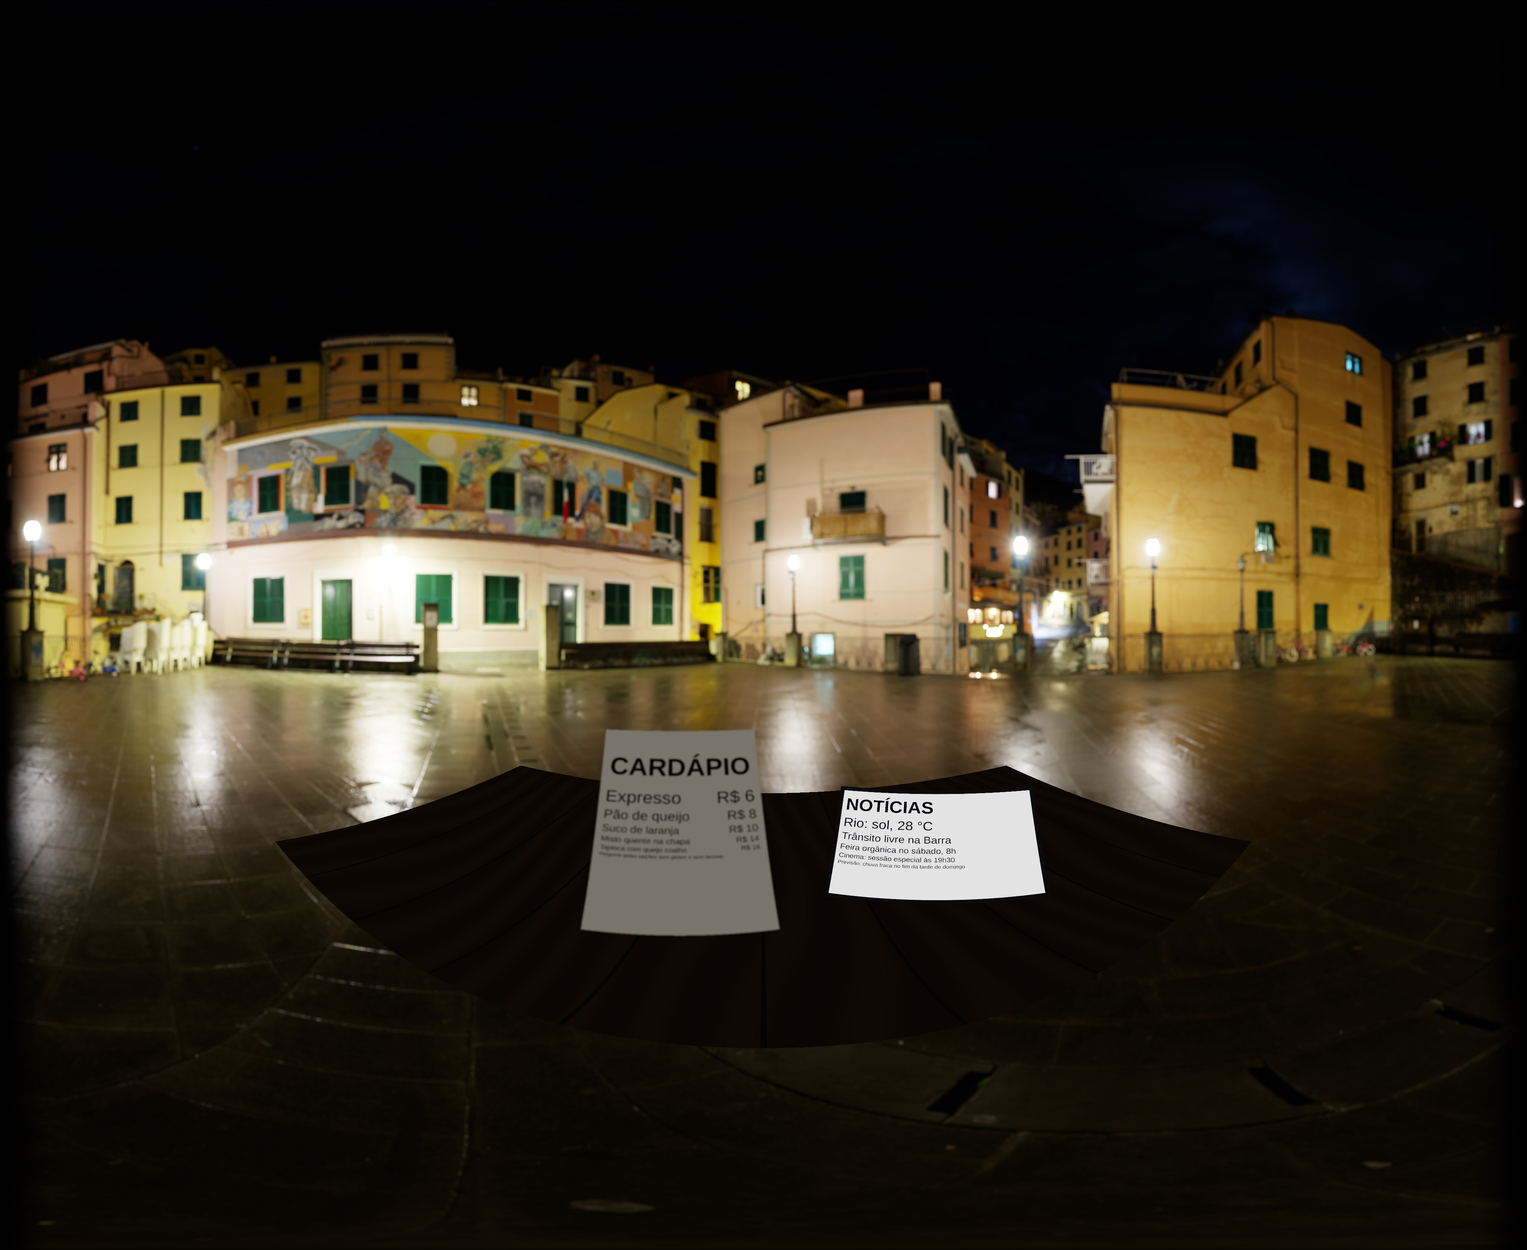
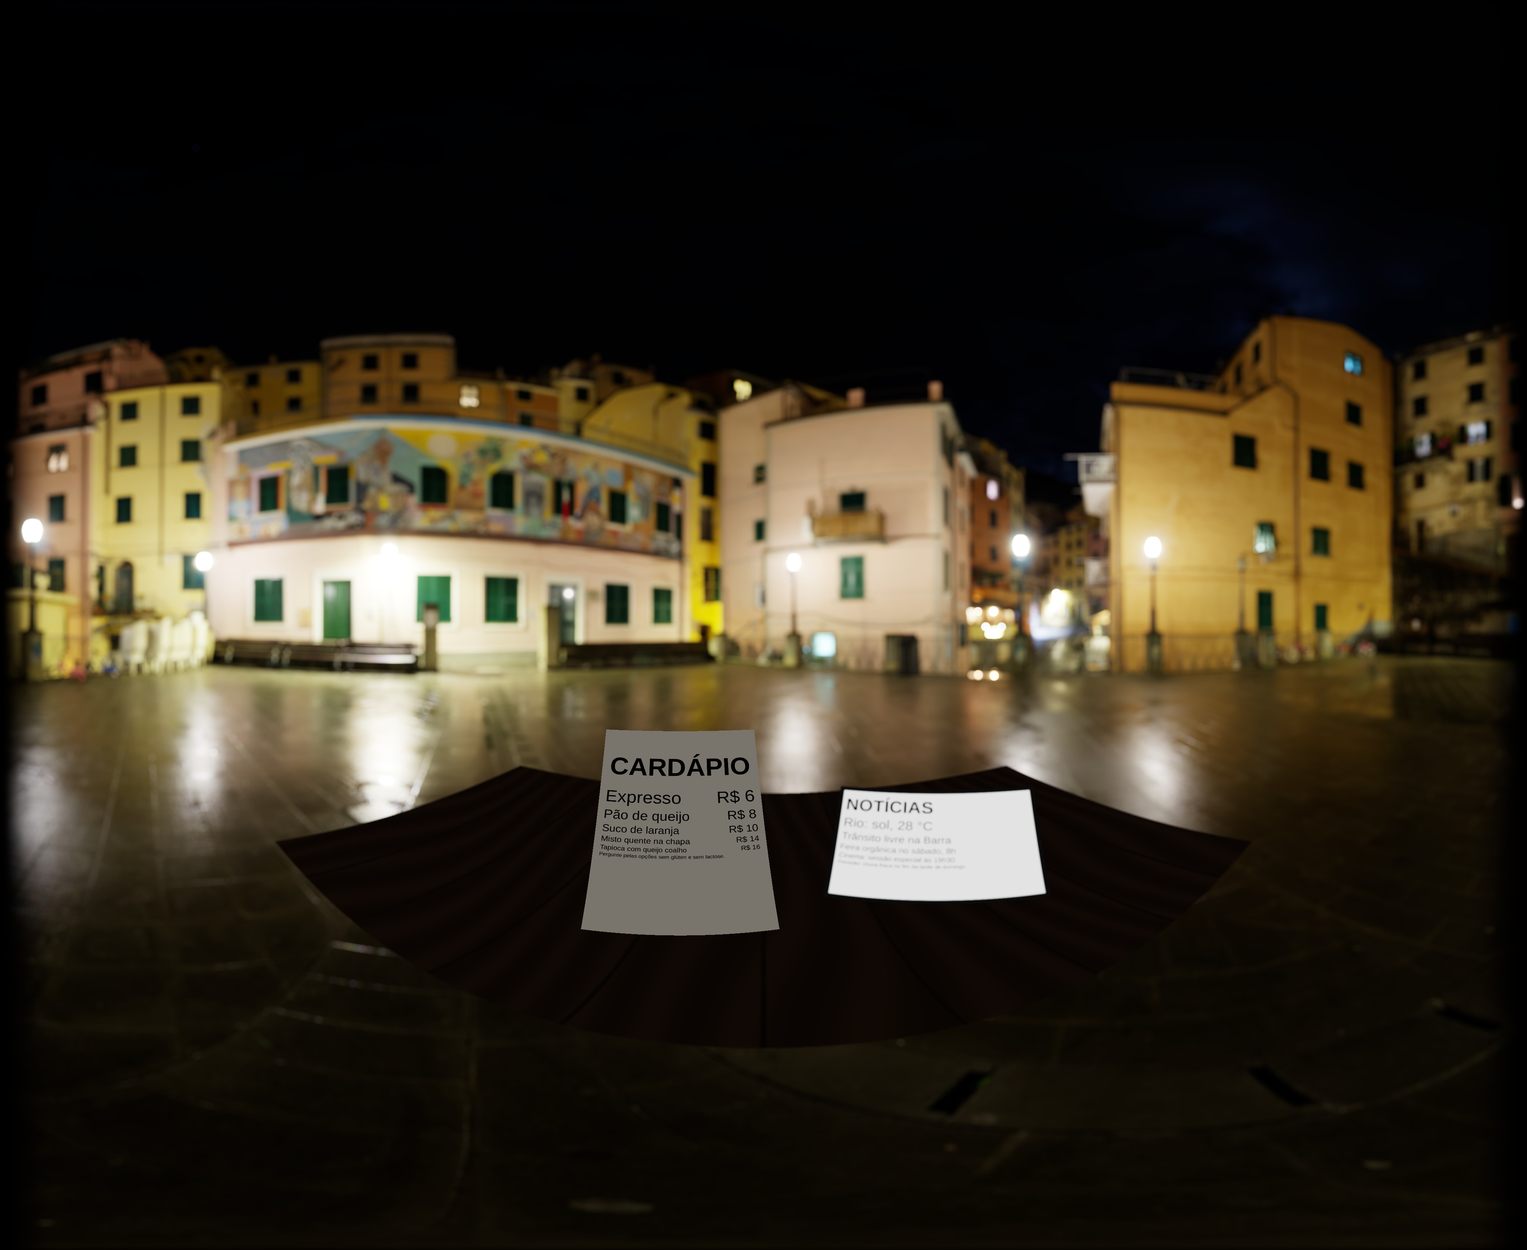
Perto nítido na multifocal e no olho de perto; vídeo em resolução cheia (código)
- Livro conta como perto (40 cm); a multifocal é seletiva de dia e o OE da monovisão vai a −2,50 D.
- tools/video.py: 3800 × 3600 (20 px/grau, a resolução da lente) em HEVC, duas passadas de 3 lentes.
- Noite regerada (olho de perto novo). Vídeos do dia em renderização.

Claude-Session: https://claude.ai/code/session_01XtBJ8An28GNAkWoeKpGgwd

diff --git a/tools/video.py b/tools/video.py
@@ -1,7 +1,7 @@
 """Gera um vídeo por lente a partir de um trecho da Insta360 X6 (só a lente da frente, sem costura).
 
 Uso: python3 tools/video.py <trecho.mp4> <início_s> [duração_s=10] [folha.jpg]
-Grava media/dia-{lente}.mp4 (190° × 180°, 3040 × 2880, H.264) e a folha de contato do quadro do meio.
+Grava media/dia-{lente}.mp4 (190° × 180°, 3800 × 3600, HEVC) e a folha de contato do quadro do meio.
 
 A distância de cada pixel vem do Depth Anything V2 (ONNX, CPU), quadro a quadro. O modelo dá a profundidade
 relativa; as três referências medidas na gravação a convertem em vergência (dioptrias), e uma mediana no
@@ -16,18 +16,22 @@ from lentes import LENTES, PUPILA_MM
 
 # Lente da frente da X6 (projeção equidistante), calibrada em 01/11/2026 pela sobreposição com a lente de trás.
 F_PX_GRAU, CENTRO, LADO = 19.75, (1919.0, 1919.9), 3840
-CAMPO, W, H = 190, 3040, 2880   # 16 px/grau; a lente cobre ~194° no quadro; 3040 × 2880 cabe no H.264 nível 5.2
+CAMPO, W, H = 190, 3800, 3600   # 20 px/grau, a resolução da própria lente; passa do teto do H.264, por isso HEVC
 PX_GRAU = W / CAMPO
 FPS = "30000/1001"
 MODELO = os.path.join(bake.CACHE, "modelos", "da2-small.onnx")  # ponytail: o small; o base tem bordas melhores e custa 2,5x
 URL_MODELO = "https://huggingface.co/onnx-community/depth-anything-v2-small/resolve/main/onnx/model.onnx"
 
-# Referências do trecho de 01/11/2026 (caixas x0, y0, x1, y1 no quadro de saída) e vergências medidas (D):
-# árvores e poste ao longe, criança e mulher a ~1 m, livro a ~30 cm (informadas pelo Dr. Henrique).
+# Referências do trecho de 01/11/2026 (caixas x0, y0, x1, y1 num quadro de 3040 × 2880) e vergências (D):
+# árvores e poste ao longe, criança e mulher a ~1 m (informadas pelo Dr. Henrique). O livro, a ~30 cm, conta
+# como o perto do app (40 cm, 2,5 D), e nada fica mais perto que ele: assim as lentes de perto o mostram nítido.
+REF_W, REF_H = 3040, 2880
 REFS = [([(500, 1280, 2300, 1440)], 0.03),
         ([(1250, 1630, 1530, 1850), (1710, 1690, 2080, 1930)], 1.0),
-        ([(760, 2080, 1960, 2400)], 1 / 0.30)]
-FAIXAS = np.float32([0.0, 1.0, 2.2, 1 / 0.30, 4.3])  # centros das faixas de vergência (D), alinhados às referências
+        ([(760, 2080, 1960, 2400)], 2.5)]
+FAIXAS = np.float32([0.0, 1.0, 1.75, 2.5])  # centros das faixas de vergência (D); a última é o livro
+REGIOES = {r: (x * W // REF_W, y * H // REF_H)  # centros dos recortes da folha de contato
+           for r, (x, y) in {"longe": (2150, 1300), "intermediário": (1900, 1820), "perto": (1520, 2160)}.items()}
 
 
 def mapas():
@@ -60,37 +64,42 @@ def vergencia(sessao, rgb):
     x = cv2.resize(rgb, (w, h), interpolation=cv2.INTER_AREA).astype(np.float32) / 255
     x = ((x - (0.485, 0.456, 0.406)) / (0.229, 0.224, 0.225)).transpose(2, 0, 1)[None].astype(np.float32)
     disp = sessao.run(None, {sessao.get_inputs()[0].name: x})[0].reshape(h, w)
-    ref = [float(np.median(np.concatenate([disp[int(y0 * h / H):int(y1 * h / H), int(x0 * w / W):int(x1 * w / W)].ravel()
+    ref = [float(np.median(np.concatenate([disp[y0 * h // REF_H:y1 * h // REF_H, x0 * w // REF_W:x1 * w // REF_W].ravel()
                                            for x0, y0, x1, y1 in caixas]))) for caixas, _ in REFS]
-    alvo = [v for _, v in REFS]
     assert ref[0] < ref[1] < ref[2], f"referências fora de ordem na profundidade estimada: {ref}"
-    v = np.interp(disp, ref, alvo)
-    v = np.where(disp > ref[2], alvo[2] + (disp - ref[2]) * (alvo[2] - alvo[1]) / (ref[2] - ref[1]), v)  # mais perto que o livro
-    return np.clip(v, 0, FAIXAS[-1]).astype(np.float32)
+    return np.interp(disp, ref, [v for _, v in REFS]).astype(np.float32)  # além das pontas, fica no valor da ponta
 
 
 def nucleos():
     """Borrão de cada lente em cada faixa, por escala (1, 2 ou 4): componente de borrão grande dispensa resolução, e o
-    componente nítido de uma multifocal fica na escala 1. Cada núcleo já vem pesado pela fração da luz."""
+    componente nítido de uma multifocal fica na escala 1. Cada núcleo já vem pesado pela fração da luz.
+    Lente seletiva (lentes.py): onde uma das imagens está em foco, só ela conta."""
     out = {}
     for nome, lente in LENTES.items():
         for i, v in enumerate(FAIXAS):
+            borrao = lambda c: bake.psf({**lente, "componentes": [(*c[:2], 1.0)]}, v, PUPILA_MM["dia"], PX_GRAU)
+            comps = lente["componentes"]
+            if lente.get("seletiva"):
+                foco = [c for c in comps if borrao(c) is None]
+                comps = [(*c[:2], 1 / len(foco)) for c in foco] or comps
             grupos = {}
-            for c in lente["componentes"]:
-                k = bake.psf({**lente, "componentes": [(*c[:2], 1.0)]}, v, PUPILA_MM["dia"], PX_GRAU)
+            for c in comps:
+                k = borrao(c)
                 grupos.setdefault(1 if k is None or k.shape[0] < 7 else 2 if k.shape[0] < 11 else 4, []).append(c)
             out[nome, i] = []
             for esc, g in grupos.items():
                 k = bake.psf({**lente, "componentes": g}, v, PUPILA_MM["dia"], PX_GRAU / esc)
                 out[nome, i].append((esc, np.float32([[sum(c[2] for c in g)]]) if k is None else k))
+    for nome in ("multifocal", "perto"):  # decisão de 01/11/2026: a multifocal e o olho de perto leem o livro nítido
+        assert [(e, k.tolist()) for e, k in out[nome, len(FAIXAS) - 1]] == [(1, [[1.0]])], f"{nome}: livro borrado"
     return out
 
 
-def lentes_do_quadro(rgb8, v, nuc, lut):
+def lentes_do_quadro(rgb8, v, nuc, lut, grupo):
     """Soma normalizada das faixas borradas (preenche o que o objeto da frente escondia). Gera (lente, rgb linear), uma por vez.
     Cada escala acumula à parte e só amplia no fim: ampliar é linear, então uma ampliação por lente basta."""
     rgb = lut[rgb8]
-    k = np.clip(np.searchsorted(FAIXAS, v) - 1, 0, len(FAIXAS) - 2)
+    k = np.clip(np.searchsorted(FAIXAS, v) - 1, 0, len(FAIXAS) - 2).astype(np.int8)
     f = np.clip((v - FAIXAS[k]) / (FAIXAS[k + 1] - FAIXAS[k]), 0, 1)
     soma = {}
     for i in range(len(FAIXAS)):
@@ -101,7 +110,7 @@ def lentes_do_quadro(rgb8, v, nuc, lut):
         np.multiply(rgb, peso[..., None], out=c1[..., :3])
         c1[..., 3] = peso
         camada = {1: c1}
-        for n in LENTES:
+        for n in grupo:
             for esc, nk in nuc[n, i]:
                 if esc not in camada:
                     camada[esc] = cv2.resize(camada[1], (W // esc, H // esc), interpolation=cv2.INTER_AREA)
@@ -110,7 +119,7 @@ def lentes_do_quadro(rgb8, v, nuc, lut):
                     soma[n, esc] += b
                 else:
                     soma[n, esc] = b
-    for n in LENTES:
+    for n in grupo:
         s = sum(soma.pop((n, e)) if e == 1 else cv2.resize(soma.pop((n, e)), (W, H), interpolation=cv2.INTER_LINEAR)
                 for e in (1, 2, 4) if (n, e) in soma)
         yield n, bake.catarata(s[..., :3] / np.maximum(s[..., 3:], 1e-4), LENTES[n], PX_GRAU)
@@ -128,8 +137,12 @@ def oito_bits(img):
     return SAIDA[x.astype(np.uint16)]
 
 
+def recortes(img):
+    return {r: img[y - 150:y + 150, x - 200:x + 200].copy() for r, (x, y) in REGIOES.items()}
+
+
 def rascunho(arq):
-    """Gravação quase sem perda e com pouca memória (são 6 ao mesmo tempo); a compressão final vem depois, uma lente por vez."""
+    """Gravação quase sem perda e com pouca memória (várias ao mesmo tempo); a compressão final vem depois, uma lente por vez."""
     cmd = ["ffmpeg", "-v", "error", "-y", "-f", "rawvideo", "-pix_fmt", "rgb24", "-s", f"{W}x{H}", "-r", FPS, "-i", "-",
            "-c:v", "libx264", "-preset", "ultrafast", "-crf", "8", "-x264-params", "threads=1", "-pix_fmt", "yuv420p", arq]
     return subprocess.Popen(cmd, stdin=subprocess.PIPE)
@@ -146,35 +159,37 @@ if __name__ == "__main__":
     if not os.path.exists(MODELO):
         os.makedirs(os.path.dirname(MODELO), exist_ok=True)
         urllib.request.urlretrieve(URL_MODELO, MODELO)
+    nuc = nucleos()
     sessao = ort.InferenceSession(MODELO, providers=["CPUExecutionProvider"])
     t0 = time.time()
     vs = np.stack([vergencia(sessao, q) for q in quadros(trecho, inicio, n)])   # 1ª passada: profundidade
     n = len(vs)
     vs = np.stack([np.median(vs[max(0, i - 2):i + 3], 0) for i in range(n)])     # mediana de 5 quadros no tempo
     print(f"profundidade de {n} quadros em {time.time() - t0:.0f} s", flush=True)
-    del sessao                                                                    # a memória vai para os 6 codificadores
-    nuc = nucleos()
+    del sessao
     pasta = tempfile.mkdtemp(prefix="lensvr-")
-    enc = {nm: rascunho(os.path.join(pasta, f"{nm}.mkv")) for nm in LENTES}
-    for i, q in enumerate(quadros(trecho, inicio, n)):                            # 2ª passada: óptica
-        if i == n // 2:
-            meio = {"original": oito_bits(LUT[q])}                                # quadro do meio, para a folha de contato
-        for nm, img in lentes_do_quadro(q, cv2.resize(vs[i], (W, H), interpolation=cv2.INTER_LINEAR), nuc, LUT):
-            b = oito_bits(img)
-            enc[nm].stdin.write(b.tobytes())
-            if i == n // 2:
-                meio[nm] = b
-        if i % 20 == 0:
-            print(f"quadro {i} em {time.time() - t0:.0f} s", flush=True)
-    for p in enc.values():
-        p.stdin.close()
-        assert p.wait() == 0, "ffmpeg falhou"
-    for nm in LENTES:                                                             # compressão final, uma lente por vez
-        subprocess.run(["ffmpeg", "-v", "error", "-y", "-i", os.path.join(pasta, f"{nm}.mkv"), "-c:v", "libx264",
-                        "-preset", "fast", "-crf", "21", "-profile:v", "high", "-level:v", "5.2", "-movflags", "+faststart",
-                        os.path.join(bake.RAIZ, "media", f"dia-{nm}.mp4")], check=True)
+    np.save(os.path.join(pasta, "vs.npy"), vs)
+    vs = np.load(os.path.join(pasta, "vs.npy"), mmap_mode="r")                    # a profundidade fica em disco
+    nomes, meio = list(LENTES), {}
+    for grupo in (nomes[:3], nomes[3:]):                                          # 2ª passada: óptica, 3 lentes por vez
+        enc = {nm: rascunho(os.path.join(pasta, f"{nm}.mkv")) for nm in grupo}    # (as 6 juntas não cabem na memória)
+        for i, q in enumerate(quadros(trecho, inicio, n)):
+            if i == n // 2 and not meio:
+                meio["original"] = recortes(oito_bits(LUT[q]))                    # quadro do meio, para a folha de contato
+            for nm, img in lentes_do_quadro(q, cv2.resize(vs[i], (W, H), interpolation=cv2.INTER_LINEAR), nuc, LUT, grupo):
+                b = oito_bits(img)
+                enc[nm].stdin.write(b.tobytes())
+                if i == n // 2:
+                    meio[nm] = recortes(b)
+            if i % 20 == 0:
+                print(f"{grupo[0]} e cia.: quadro {i} em {time.time() - t0:.0f} s", flush=True)
+        for p in enc.values():
+            p.stdin.close()
+            assert p.wait() == 0, "ffmpeg falhou"
+    for nm in nomes:                                                              # compressão final, uma lente por vez
+        subprocess.run(["ffmpeg", "-v", "error", "-y", "-i", os.path.join(pasta, f"{nm}.mkv"), "-c:v", "libx265",
+                        "-preset", "fast", "-crf", "24", "-tag:v", "hvc1", "-x265-params", "log-level=error",
+                        "-movflags", "+faststart", os.path.join(bake.RAIZ, "media", f"dia-{nm}.mp4")], check=True)
     shutil.rmtree(pasta)
-    regioes = {"longe": (2150, 1300), "intermediário": (1900, 1820), "perto": (1520, 2160)}
-    bake.folha_de_contato({"vídeo": {nm: {r: im[y - 150:y + 150, x - 200:x + 200] for r, (x, y) in regioes.items()}
-                                     for nm, im in meio.items()}}, folha)
+    bake.folha_de_contato({"vídeo": meio}, folha)
     print(f"pronto em {time.time() - t0:.0f} s; folha de contato: {folha}")

diff --git a/tools/lentes.py b/tools/lentes.py
@@ -6,6 +6,8 @@ Depois de editar: python3 tools/bake.py  (regera media/ e a folha de contato).
 Componente = (foco em D, faixa nítida em D, fração da luz). Frações de uma lente somam 1.
 Desfoque efetivo de um objeto = |vergência do objeto − foco| − faixa (nunca negativo).
 Diâmetro do borrão = pupila × desfoque × GANHO.
+Lente "seletiva": de dia, onde uma das imagens está em foco, o cérebro fica só com ela (no vídeo, tools/video.py).
+À noite vale a óptica física, e a luz desviada vira halo.
 """
 
 GANHO = 2.0                             # 1,0 = óptica física; 2,0 compensa a tela do óculos (~20/75)
@@ -21,10 +23,11 @@ LENTES = {
     },
     "monofocal": {"componentes": [(0.0, 0.25, 1.0)]},
     "edof": {"componentes": [(0.75, 0.75, 0.9), (2.0, 0.25, 0.1)]},
-    "multifocal": {"componentes": [(0.0, 0.25, 0.5), (1.5, 0.25, 0.2), (2.5, 0.25, 0.3)]},
+    # 01/11/2026: de dia, perto (livro) e longe 100% nítidos.
+    "multifocal": {"componentes": [(0.0, 0.25, 0.5), (1.5, 0.25, 0.2), (2.5, 0.25, 0.3)], "seletiva": True},
     # Monofocal comum num olho com astigmatismo: equivalente esférico no foco, meridianos a ±cilindro/2.
     # Eixo em graus na imagem (0 = horizontal, 90 = vertical); o meridiano do eixo fica em foco − cilindro/2.
     "astig": {"componentes": [(0.0, 0.25, 1.0)], "cilindro": 1.50, "eixo": 90},
-    # Olho de perto da monovisão (OE, −1,50 D). O OD usa a monofocal.
-    "perto": {"componentes": [(1.5, 0.25, 1.0)]},
+    # Olho de perto da monovisão (OE, −2,50 D: lê o livro nítido, decisão de 01/11/2026). O OD usa a monofocal.
+    "perto": {"componentes": [(2.5, 0.25, 1.0)]},
 }

diff --git a/.scratch/esqueleto/spec.md b/.scratch/esqueleto/spec.md
@@ -61,10 +61,10 @@ Valores iniciais, aprovados pelo Dr. Henrique em 23/10/2026 como ponto de partid
 | Catarata (antes) | 0 · 0,25 · 1,0 | desfoque basal 0,75 D, véu 30%, contraste 70%, amarelamento |
 | Monofocal | 0 · 0,25 · 1,0 | — |
 | EDOF | 0,75 · 0,75 · 0,9 + 2,0 · 0,25 · 0,1 | — |
-| Multifocal (trifocal) | 0 · 0,25 · 0,5 + 1,5 · 0,25 · 0,2 + 2,5 · 0,25 · 0,3 | — |
+| Multifocal (trifocal) | 0 · 0,25 · 0,5 + 1,5 · 0,25 · 0,2 + 2,5 · 0,25 · 0,3 | de dia, a imagem em foco prevalece: longe e perto 100% nítidos (01/11/2026); à noite, halos |
 | Tórica: sem correção | 0 · 0,25 · 1,0 | astigmatismo residual 1,50 D a 90° |
 | Tórica: corrigida | igual à monofocal | — |
-| Monovisão | OD: 0 · 0,25 · 1,0 / OE: 1,5 · 0,25 · 1,0 (−1,50 D) | imagem diferente por olho |
+| Monovisão | OD: 0 · 0,25 · 1,0 / OE: 2,5 · 0,25 · 1,0 (−2,50 D; era −1,50 D até 01/11/2026) | imagem diferente por olho; o OE lê o perto nítido |
 
 - Fotos em 4096 × 3352 (220° × 180°, ≈18,6 px/grau, acima dos ~16 px/grau da tela no óculos): `media/noite-{lente}.jpg`. Vídeo do dia: `media/dia-{lente}.mp4`. Lentes: catarata, monofocal, edof, multifocal, astig, perto. A tórica corrigida e o OD da monovisão reusam a monofocal.
 
@@ -83,9 +83,9 @@ Valores iniciais, aprovados pelo Dr. Henrique em 23/10/2026 como ponto de partid
 
 **Vídeo (`tools/video.py`)**
 - Origem: o `.insv` da X6 traz as duas lentes em fluxos separados (3840 × 3840, HEVC 10 bits, 29,97 fps). Usa-se só a lente da frente (fluxo 0), sem costura: ela cobre ~194° no quadro. Projeção equidistante calibrada pela sobreposição com a lente de trás: 19,75 px/grau, centro (1919; 1920).
-- Saída 190° × 180° em 3040 × 2880 (16 px/grau), H.264 nível 5.2 (o maior quadro desse nível a 30 fps). Falta confirmar a reprodução no S23 Ultra.
-- Profundidade: Depth Anything V2 small (ONNX, CPU) quadro a quadro. A profundidade relativa vira vergência pelas três referências medidas na gravação: árvores 0,03 D, criança e mulher 1,0 D, livro 3,33 D. Depois, mediana de 5 quadros no tempo.
-- Óptica: a mesma do `bake.py`, em 5 faixas de vergência alinhadas às referências, somadas com normalização (o que o objeto da frente escondia é preenchido). Cada componente da lente é borrado na sua escala: borrões grandes em 1/2 ou 1/4 da resolução, a parte nítida da EDOF e da multifocal na resolução cheia. A memória do container (~6 GB) manda: um processo só, com as 6 lentes gravadas primeiro num rascunho quase sem perda e comprimidas depois, uma por vez. Leva ~55 min por 10 s.
+- Saída 190° × 180° em 3800 × 3600 (20 px/grau, a resolução da própria lente), em HEVC: passa do teto do H.264 (~9 MP por quadro), e o S23 Ultra decodifica HEVC no hardware. A versão anterior, em H.264 a 3040 × 2880, tocou nele.
+- Profundidade: Depth Anything V2 small (ONNX, CPU) quadro a quadro. A profundidade relativa vira vergência pelas três referências medidas na gravação: árvores 0,03 D, criança e mulher 1,0 D. O livro, a ~30 cm, conta como o perto do app (2,5 D), e nada fica mais perto que ele (01/11/2026: não importa 30 ou 40 cm). Depois, mediana de 5 quadros no tempo.
+- Óptica: a mesma do `bake.py`, em 4 faixas de vergência (0; 1,0; 1,75; 2,5 D), somadas com normalização (o que o objeto da frente escondia é preenchido). Cada componente da lente é borrado na sua escala: borrões grandes em 1/2 ou 1/4 da resolução, a parte nítida da EDOF e da multifocal na resolução cheia. A memória do container (~6 GB) manda: duas passadas de 3 lentes, cada lente gravada primeiro num rascunho quase sem perda e comprimida em HEVC depois, uma por vez. Leva ~1h45 por 10 s.
 - O trecho de origem fica no Mac (`VR simulator/VR IOL Simulator/video teste/trecho_37-49s.mp4`, cópia sem recodificar de 37 a 49 s). Para regerar: `python3 tools/video.py <trecho> 1.0 10`.
 - Produto final: vídeos mais longos passam do limite do GitHub Pages (~1 GB): hospedar à parte e baixar no celular antes da consulta.
 

diff --git a/HANDOFF.md b/HANDOFF.md
@@ -9,7 +9,8 @@
 
 ## Decisões
 - **MVP (01/11/2026):** de dia, 10 s de vídeo da X6 gravado pelo Henrique na varanda (livro a ~30 cm, criança e mulher a ~1 m, árvores ao longe), publicação autorizada por ele. À noite, a foto HDR `vignaioli_night` do Poly Haven (CC0) com mesa, cardápio e notebook sintéticos. As gravações do roteiro (café de dia, carro à noite) ficam para depois do MVP (ticket 05).
-- **Vídeo:** só a lente da frente, sem costura, 190° × 180° em 3040 × 2880 (H.264 nível 5.2). A profundidade vem do Depth Anything V2 small, calibrada pelas três distâncias que o Henrique informou. Detalhes na spec, seção "Vídeo".
+- **Vídeo:** só a lente da frente, sem costura, 190° × 180° em 3800 × 3600 (20 px/grau, a resolução da lente), em HEVC. A profundidade vem do Depth Anything V2 small, calibrada pelas distâncias que o Henrique informou; o livro conta como perto (40 cm). Detalhes na spec, seção "Vídeo".
+- **Perto (01/11/2026):** a multifocal e o olho de perto da monovisão (agora −2,50 D) leem o livro 100% nítido. De dia a multifocal é seletiva: onde uma imagem está em foco, só ela conta. À noite segue a óptica física, com halos.
 - **WebXR nativo do Chrome** (Cardboard) no lugar do giroscópio e do estéreo próprios. O antigo ticket 02 (calibração) saiu; a calibração passa a ser o QR code do óculos.
 - **Campo:** 220° × 180° nas fotos e 190° × 180° no vídeo. O app tira o campo da proporção da mídia, e a borda some num degradê.
 - **Óptica.** A tabela da spec foi aprovada como ponto de partida e fica em `tools/lentes.py`. Ordem dos capítulos da spec mantida.
@@ -25,14 +26,13 @@
 - **Não verificado no aparelho:** WebXR no S23 Ultra, QR code do Cardboard no óculos, tela acesa durante a sessão, nitidez real no óculos, reprodução do vídeo de 3040 × 2880 (dois ao mesmo tempo na monovisão), vídeo atualizando dentro da sessão VR.
 
 ## Pendências do Henrique
-1. Abrir o site no Chrome do S23 Ultra, tocar em Iniciar e contar se entra no modo VR do Cardboard.
-2. Comprar um SC-G15E e testar o encaixe.
-3. Avaliação clínica das folhas de contato (noite e vídeo) e, depois, no óculos. O ganho 2,0 também dobra o tamanho do halo.
-4. Gravar a narração por capítulo (opcional no MVP).
+1. Feito em 01/11/2026: o vídeo tocou no S23 Ultra com um óculos Shinecon, mas a resolução pareceu baixa. Conferir se a tela está em WQHD+ e retestar com o vídeo em resolução cheia (HEVC).
+2. Avaliação clínica das folhas de contato (noite e vídeo) e, depois, no óculos. O ganho 2,0 também dobra o tamanho do halo.
+3. Gravar a narração por capítulo (opcional no MVP).
 
 ## Como rodar
 - `python3 tools/bake.py [folha.jpg]` regera as fotos da noite e a folha de contato em ~1 min. Na primeira vez, baixa o HDR para `~/.cache/olharpar-lensvr`. Precisa de numpy, Pillow, scipy e opencv.
-- `python3 tools/video.py <trecho.mp4> 1.0 10 [folha.jpg]` regera os vídeos do dia e a folha de contato deles em ~55 min. Precisa também de onnxruntime; baixa o modelo de profundidade (~100 MB) na primeira vez. O trecho precisa ser copiado do Mac (device_stage_files).
+- `python3 tools/video.py <trecho.mp4> 1.0 10 [folha.jpg]` regera os vídeos do dia e a folha de contato deles em ~1h45. Precisa também de onnxruntime; baixa o modelo de profundidade (~100 MB) na primeira vez. O trecho precisa ser copiado do Mac (device_stage_files).
 - `node --test` testa a montagem da sequência.
 - `THREE_DIR=<three/build> python3 tests/smoke.py <pasta>` roda o teste da página (Playwright + Chromium). Sem acesso ao CDN, use `npm pack three@0.186.1`.
 - Para publicar: `git push origin main`.
